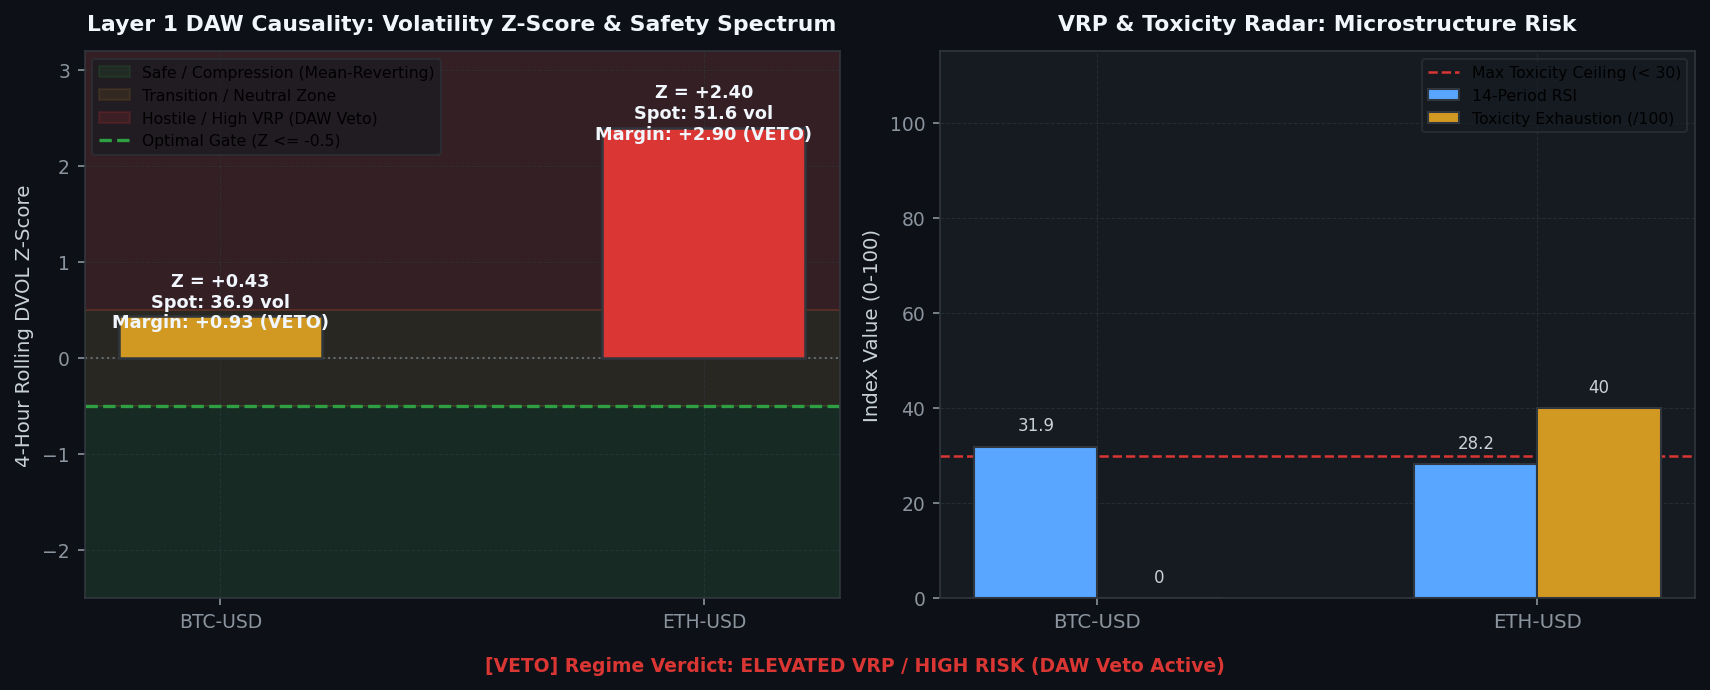
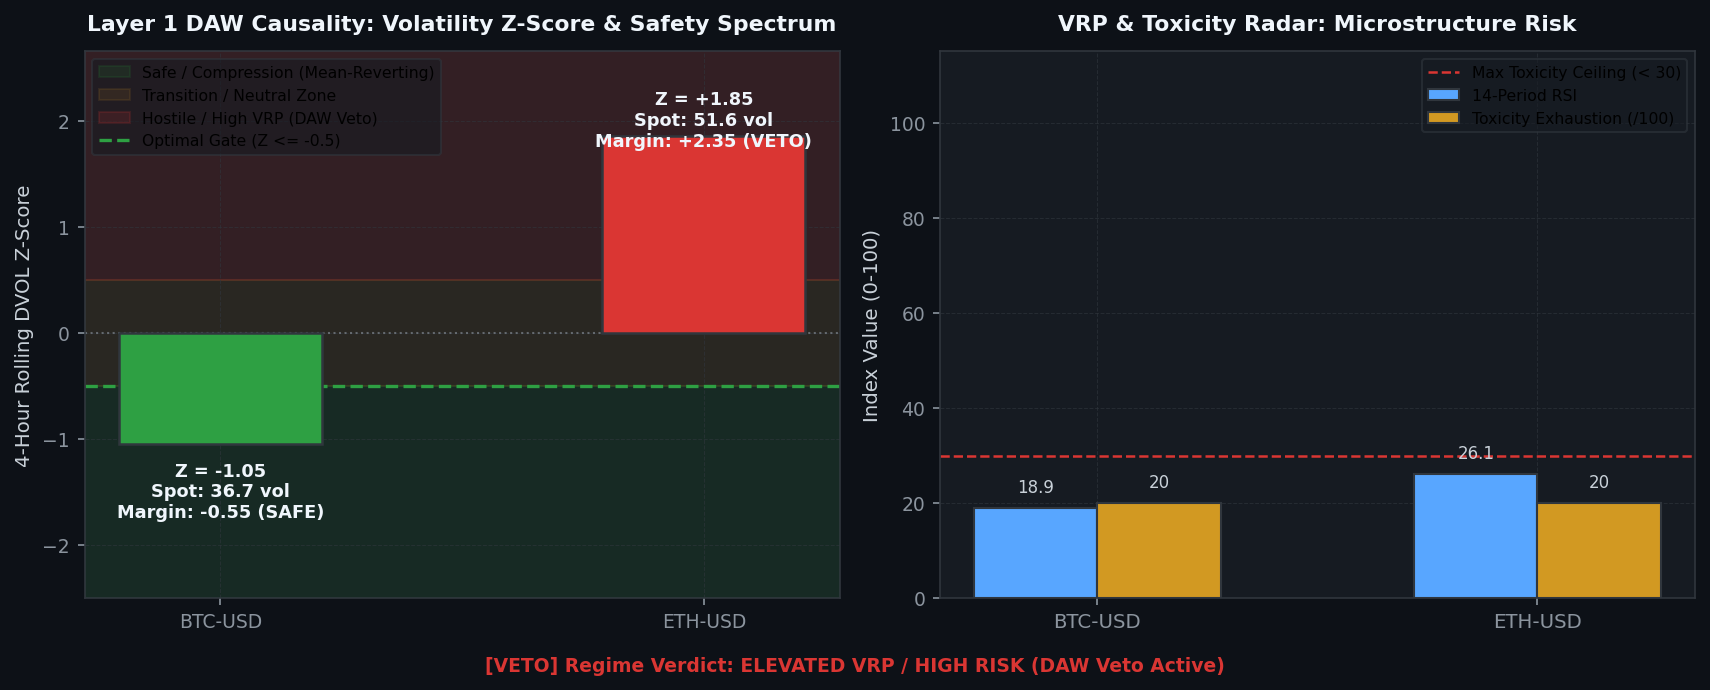
[coinbase] Hourly Status & Visual Intelligence Update: 2026-08-30 17:44:40

diff --git a/coinbase/data/hourly_status_report.md b/coinbase/data/hourly_status_report.md
@@ -3,7 +3,7 @@ layout: default
 ---
 
 # 🛡 Unified Trading System Hourly Status & Visual Intelligence
-> **Report Generated**: `2026-08-30 05:25:54 PM PDT (2026-08-31 00:25:54 UTC)`  
+> **Report Generated**: `2026-08-30 05:44:22 PM PDT (2026-08-31 00:44:22 UTC)`  
 > **System Health**: **🟡 DEGRADED / RESTRICTED** | **Win Rate**: `0.0%` | **Completed Trades**: `0`
 
 
@@ -15,13 +15,13 @@ Real-time Deribit implied volatility (DVOL) proxy tracking against mathematicall
 
 | Symbol | Proxy Oracle | Live Z-Score | Optimal Limit (YSP) | Safety Margin | Live VRP | Optimal VRP (YSP) | DAW Safety Verdict |
 | :--- | :--- | :--- | :--- | :--- | :--- | :--- | :--- |
-| `AVAX-USD` | DVOL_BTC | **+0.43** | **-0.50** | **+0.93** | **+7.63** | 5.0 | 🔴 DAW VETOED |
-| `ETH-USD` | DVOL_ETH | **+2.40** | **-0.50** | **+2.90** | **+22.37** | 5.0 | 🔴 DAW VETOED |
-| `ADA-USD` | DVOL_BTC | **+0.43** | **-0.50** | **+0.93** | **+7.65** | 5.0 | 🔴 DAW VETOED |
-| `DOGE-USD` | DVOL_BTC | **+0.43** | **-0.50** | **+0.93** | **+7.65** | 5.0 | 🔴 DAW VETOED |
-| `BTC-USD` | DVOL_BTC | **+0.43** | **-0.50** | **+0.93** | **+7.64** | 5.0 | 🔴 DAW VETOED |
-| `LINK-USD` | DVOL_BTC | **+0.43** | **-0.50** | **+0.93** | **+7.64** | 5.0 | 🔴 DAW VETOED |
-| `SOL-USD` | DVOL_BTC | **+0.43** | **-0.50** | **+0.93** | **+7.64** | 5.0 | 🔴 DAW VETOED |
+| `AVAX-USD` | DVOL_BTC | **-1.05** | **-0.50** | **-0.55** | **+6.98** | 5.0 | 🔴 DAW VETOED |
+| `ETH-USD` | DVOL_ETH | **+1.85** | **-0.50** | **+2.35** | **+21.94** | 5.0 | 🔴 DAW VETOED |
+| `ADA-USD` | DVOL_BTC | **-1.05** | **-0.50** | **-0.55** | **+6.93** | 5.0 | 🔴 DAW VETOED |
+| `DOGE-USD` | DVOL_BTC | **-1.05** | **-0.50** | **-0.55** | **+7.07** | 5.0 | 🔴 DAW VETOED |
+| `BTC-USD` | DVOL_BTC | **-1.05** | **-0.50** | **-0.55** | **+7.03** | 5.0 | 🔴 DAW VETOED |
+| `LINK-USD` | DVOL_BTC | **-1.05** | **-0.50** | **-0.55** | **+6.89** | 5.0 | 🔴 DAW VETOED |
+| `SOL-USD` | DVOL_BTC | **-1.05** | **-0.50** | **-0.55** | **+7.03** | 5.0 | 🔴 DAW VETOED |
 
 
 
@@ -37,16 +37,16 @@ We hereby certify that the mission-critical algorithmic data assets uploaded by 
 
 | Status | Data Asset | Freshness / State | Details / Timestamp |
 | :---: | :--- | :--- | :--- |
-| ✅ | **Go-List JSON** | Fresh (10.30h old) | 08-30 07:08 |
-| ✅ | **TimesFM Forecasts** | Fresh (1.40h old) | 08-30 16:02 |
-| ❌ | **Holding Times config** | STALE! (224.4h old) | Limit 166.4h |
-| ✅ | **BTC DVOL Cache** | Fresh (0.00h old) | 08-30 17:25 |
-| ✅ | **ETH DVOL Cache** | Fresh (0.01h old) | 08-30 17:25 |
-| ✅ | **Live Trading Telemetry** | Fresh (0.00h old) | 08-30 17:26 |
+| ✅ | **Go-List JSON** | Fresh (10.60h old) | 08-30 07:08 |
+| ✅ | **TimesFM Forecasts** | Fresh (1.71h old) | 08-30 16:02 |
+| ❌ | **Holding Times config** | STALE! (224.7h old) | Limit 166.7h |
+| ✅ | **BTC DVOL Cache** | Fresh (0.00h old) | 08-30 17:44 |
+| ✅ | **ETH DVOL Cache** | Fresh (0.00h old) | 08-30 17:44 |
+| ✅ | **Live Trading Telemetry** | Fresh (0.00h old) | 08-30 17:44 |
 
 <br>
 
-> **Utilization Certification**: ✅ **CERTIFIED.** The Guardian Watchdog is ONLINE and EC2 traders are actively querying the freshest MLOps data artifacts (Found 1850 recent read events).
+> **Utilization Certification**: ✅ **CERTIFIED.** The Guardian Watchdog is ONLINE and EC2 traders are actively querying the freshest MLOps data artifacts (Found 1899 recent read events).
 
 
 ---
@@ -55,7 +55,7 @@ Layer-by-layer tick evaluation waterfall and asset-specific performance tracking
 
 | Funnel Filter Layer | Total Rejections | % of Rejections |
 | :--- | :--- | :--- |
-| Tier 1: Macro Volatility Tensor Gate (Omega_macro) | `39,640` | **100.0%** |
+| Tier 1: Macro Volatility Tensor Gate (Omega_macro) | `39,940` | **100.0%** |
 | Tier 2: Unified Transport & Directional Engine | `0` | **0.0%** |
 | Tier 3: Continuous Hawkes-SFGK Pricer (HAS-Pricer) | `0` | **0.0%** |
 | System: Asset Cooldown Active | `0` | **0.0%** |
@@ -86,6 +86,9 @@ Live balance sheet and open maker liquidity positions from Coinbase CDP.
 | Product | Side | Limit Price | Order ID |
 | :--- | :--- | :--- | :--- |
 | `ACH-USD` | SELL | 0.005507 | `a0d2e243-42b4-4df5-bd23-118f45998df8` |
+| `AVAX-USD` | BUY | 7.159 | `065d8758-0282-47d4-bfb7-d890e30ba17f` |
+| `LINK-USD` | BUY | 11.214 | `9a06f5a4-9021-4eb3-b749-38ba818e47a3` |
+| `ADA-USD` | BUY | 0.1946 | `90b2ba6d-f55f-4f87-afd2-2d594a248b0e` |
 
 
 
@@ -93,14 +96,14 @@ Live balance sheet and open maker liquidity positions from Coinbase CDP.
 ## 4. 🤖 Foundation Model MLOps & Pipeline Orchestration
 Weekly Algorithmic Mega Cap selection, Zero-shot multi-step forward return forecasts, and VSTEF parameter grid search status.
 
-- **TimesFM Forecast DB**: 🟢 Updated 1.4h ago (2026-08-30 04:02 PM PDT)
+- **TimesFM Forecast DB**: 🟢 Updated 1.7h ago (2026-08-30 04:02 PM PDT)
 - **Last Weekly VSTEF Optimization**: `2026-08-05 09:22:38 AM PDT`
-- **Next Scheduled VSTEF Run**: `2026-08-30 07:00:00 PM PDT (Monday 02:00 UTC)` (Countdown: **1.6h (0d 1h 34m)**)
+- **Next Scheduled VSTEF Run**: `2026-08-30 07:00:00 PM PDT (Monday 02:00 UTC)` (Countdown: **1.3h (0d 1h 15m)**)
 - **Promoted Parameter Gates**: $Z_{DVOL} \le -0.5$ | Holding Horizon $= 12\text{h}$
 
 ### Algorithmic Mega Cap Selection
 - **Last Run (Confirmation)**: `2026-08-30 07:08:16 AM PDT`
-- **Next Scheduled Run**: `2026-08-30 06:00:00 PM PDT (Monday 01:00 UTC)` (Countdown: **0.6h (0d 0h 33m)**)
+- **Next Scheduled Run**: `2026-08-30 06:00:00 PM PDT (Monday 01:00 UTC)` (Countdown: **0.3h (0d 0h 15m)**)
 - **Selected Mega Cap Universe**: `BTC, BCH, AVAX, ETH, ALGO, ADA, LTC, DOGE, AAVE, LINK, DOT, HBAR`
 
 
@@ -114,20 +117,20 @@ Visualizing the impact of the VSTEF (Volatility-Synchronized Stop-Tightening Exe
 ## 5. 🖥 Multi-Node Infrastructure & Watchdog Matrix
 ```text
 ================================================================================
-   🛡  SFGK FUNNEL GUARDIAN WATCHDOG (HFT ONLY) |  12:25:50 AM
-   CPU:   8.3%  |  MEM:   6.1% (14.5GB / 15.4GB Free)
+   🛡  SFGK FUNNEL GUARDIAN WATCHDOG (HFT ONLY) |  12:44:21 AM
+   CPU:   4.3%  |  MEM:   7.1% (14.3GB / 15.4GB Free)
 ================================================================================
 SERVICE              | PID      | STATUS          | RESTARTS | INFO
 --------------------------------------------------------------------------------
 L3 Consumer          | 1449375  | RUNNING         | -        | Continuous Websocket Feed
 MAO Daemon           | 1449381  | RUNNING         | -        | Oracle Yield Analysis
 U/U Farmer           | 1449383  | RUNNING         | -        | Volume Farmer
-Trader AVAX-USD      | 1474215  | COOL-DOWN       | 68       | Next run in 3.6s
-Trader ETH-USD       | 1474216  | COOL-DOWN       | 74       | Next run in 3.6s
-Trader ADA-USD       | 1474381  | RUNNING         | 69       | Evaluating Funnel/Polling Order
-Trader DOGE-USD      | 1474382  | RUNNING         | 20       | Evaluating Funnel/Polling Order
-Trader BTC-USD       | 1474274  | COOL-DOWN       | 80       | Next run in 9.2s
-Trader LINK-USD      | 1474275  | COOL-DOWN       | 49       | Next run in 9.2s
+Trader AVAX-USD      | 1488349  | RUNNING         | 103      | Evaluating Funnel/Polling Order
+Trader ETH-USD       | 1489953  | RUNNING         | 126      | Evaluating Funnel/Polling Order
+Trader ADA-USD       | 1489337  | RUNNING         | 107      | Evaluating Funnel/Polling Order
+Trader DOGE-USD      | 1489945  | COOL-DOWN       | 65       | Next run in 9.4s
+Trader BTC-USD       | 1489866  | COOL-DOWN       | 131      | Next run in 4.1s
+Trader LINK-USD      | 1489324  | RUNNING         | 87       | Evaluating Funnel/Polling Order
 ```
 
 ---

diff --git a/coinbase/data/visual_intelligence.md b/coinbase/data/visual_intelligence.md
@@ -4,7 +4,7 @@ title: Visual Intelligence Gallery
 ---
 
 # 📈 Visual Intelligence Gallery
-> **Generated:** `2026-08-30 17:26:11`
+> **Generated:** `2026-08-30 17:44:40`
 > **[Return to Main Status Report](./hourly_status_report.md)**
 
 This page visualizes the internal states, market profiles, and decision criteria of the active **3-Tier Fused Decision Engine** across all layers.
